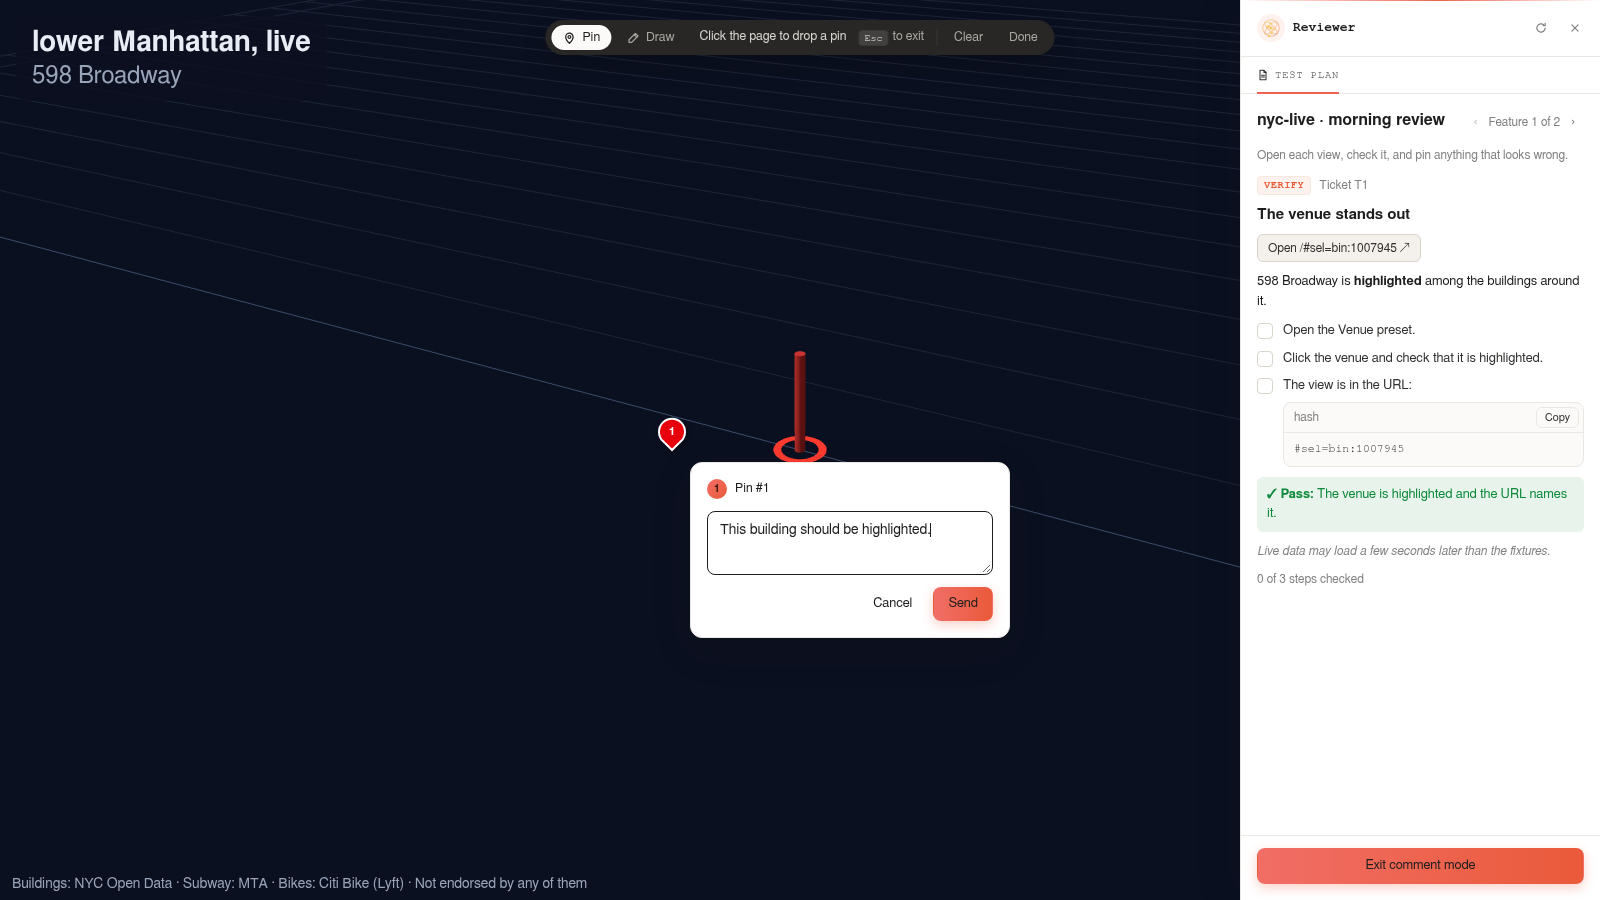
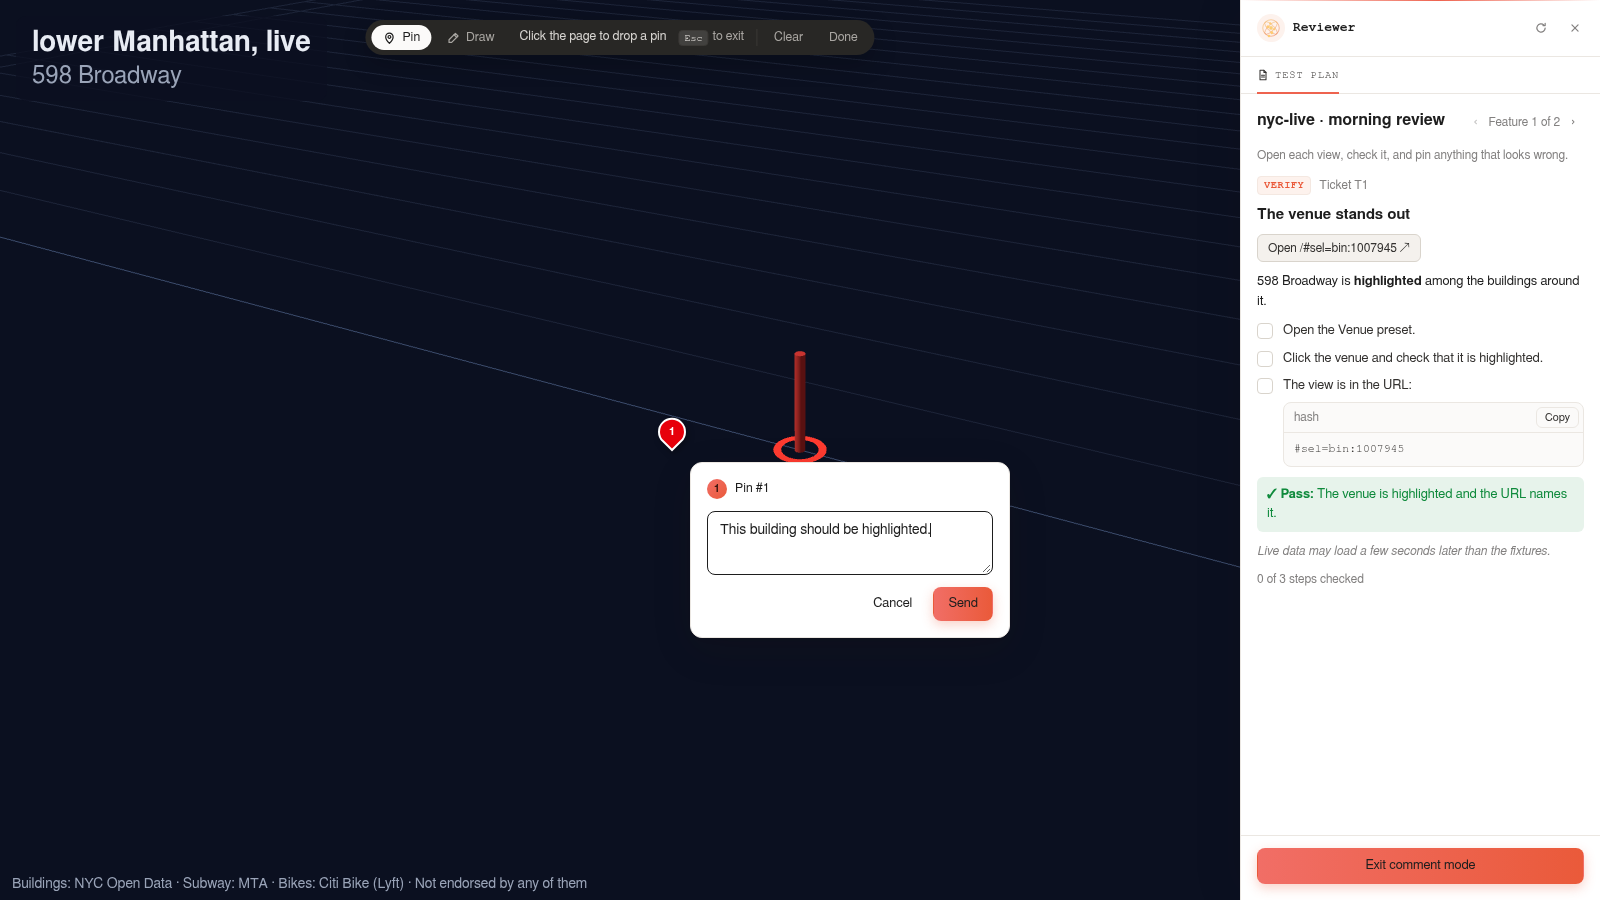
reviewer-overlay: keep the toolbar clear of the panel, fingerprint the look
The comment toolbar sits above the docked panel and, when the window has
room, centres in the space beside it, so Clear and Done stay clickable on
narrower screens. Long plan titles wrap instead of pushing the feature
navigation out of the row.

The design check now fingerprints the files that decide the look. Replay
fails when they changed since the last passing --record, so the recorded
answers always describe screenshots of the current look. Screenshots
retaken and the check recorded again.

Changed region(s): [[0.2188, 0.0, 0.6562, 0.0622]]

diff --git a/reviewer-overlay/src/client/styles.ts b/reviewer-overlay/src/client/styles.ts
@@ -127,7 +127,7 @@ button { cursor: pointer; }
   border-bottom: 2px solid var(--accent);
 }
 .panel-tab .icon { width: 12px; height: 12px; }
-.panel-body { flex: 1; overflow-y: auto; padding: 16px; display: flex; flex-direction: column; gap: 12px; }
+.panel-body { flex: 1; overflow-y: auto; padding: 16px; display: flex; flex-direction: column; gap: 12px; overflow-wrap: anywhere; }
 .panel-foot { display: flex; flex-direction: column; gap: 10px; padding: 12px 16px 16px; border-top: 1px solid var(--line); }
 .panel-foot .btn { width: 100%; padding: 9px 12px; }
 .target { display: flex; flex-direction: column; gap: 6px; }
@@ -138,7 +138,7 @@ button { cursor: pointer; }
 }
 .target input:focus { outline: none; border-color: var(--fg); }
 
-.plan-title { font-weight: 600; font-size: 16px; line-height: 1.3; color: var(--fg); }
+.plan-title { flex: 1 1 auto; min-width: 0; font-weight: 600; font-size: 16px; line-height: 1.3; color: var(--fg); }
 .muted { color: var(--muted); }
 .small { font-size: 12px; }
 .plan-head { display: flex; align-items: flex-start; justify-content: space-between; gap: 8px; }
@@ -207,7 +207,7 @@ a.link:hover { background: var(--line); }
 .marks { position: fixed; inset: 0; z-index: 2; pointer-events: none; width: 100vw; height: 100vh; overflow: visible; }
 .marks .pin { filter: drop-shadow(2px 3px 3px rgba(0,0,0,.3)); }
 .toolbar {
-  position: fixed; top: 20px; left: 50%; transform: translateX(-50%); z-index: 3;
+  position: fixed; top: 20px; left: 50%; transform: translateX(-50%); z-index: 5;
   display: flex; align-items: center; gap: 4px; padding: 5px 6px; max-width: calc(100vw - 24px); flex-wrap: wrap;
   background: var(--ink); color: var(--ink-fg); border-radius: 18px; box-shadow: 0 8px 24px rgba(0,0,0,.22);
   font-size: 12.5px;
@@ -223,10 +223,15 @@ a.link:hover { background: var(--line); }
 }
 .toolbar .sep { width: 1px; align-self: stretch; margin: 4px 2px; background: var(--ink-line); }
 .toolbar .status { flex-basis: 100%; padding: 2px 10px 4px; color: var(--ink-fg); }
+/* The toolbar sits above the docked panel, and centres in the space beside it
+   when the window leaves enough room. */
+@media (min-width: 900px) {
+  .root.panel-open .toolbar { left: calc(50% - min(360px, 100vw) / 2); max-width: calc(100vw - min(360px, 100vw) - 24px); }
+}
 .toolbar .status.error { color: #ff8a80; }
 .toolbar .status.success { color: #7ee2a0; }
 .composer {
-  position: fixed; z-index: 5; width: 320px; max-width: calc(100vw - 24px);
+  position: fixed; z-index: 6; width: 320px; max-width: calc(100vw - 24px);
   display: flex; flex-direction: column; gap: 12px; padding: 16px;
   background: var(--bg); border: 1px solid var(--line); border-radius: 12px; box-shadow: var(--shadow);
 }

diff --git a/reviewer-overlay/test/design-check.ts b/reviewer-overlay/test/design-check.ts
@@ -10,6 +10,11 @@
 // the request with every image replaced by its sha256, so --replay needs neither
 // the references nor a key. Exits 0 when every check passes, 1 when one fails,
 // 2 when the checks could not run.
+//
+// Answers about screenshots of an older look prove nothing, so the check file
+// also fingerprints the files that decide the look (`look`): --replay fails when
+// they changed since the last passing --record, and a passing --record updates
+// the fingerprint. Retake the screenshots before you record again.
 
 import { createHash } from "node:crypto"
 import { mkdirSync, readFileSync, writeFileSync } from "node:fs"
@@ -28,6 +33,7 @@ type Spec = {
   context: string
   references: Array<{ name: string; caption: string; sha256: string }>
   shots: Array<{ name: string; caption: string; path: string }>
+  look?: { files: string[]; sha256: string }
   checks: Check[]
 }
 
@@ -39,6 +45,11 @@ type Answer =
 type Part = { type: "input_text"; text: string } | { type: "input_image"; image_url: string }
 
 const sha256 = (data: Buffer | string): string => createHash("sha256").update(data).digest("hex")
+
+// Line endings are normalised so a checkout with CRLF gets the same fingerprint.
+function lookSha256(files: string[]): string {
+  return sha256(files.map((file) => `${file}\0${readFileSync(file, "utf8").replaceAll("\r\n", "\n")}`).join("\0"))
+}
 
 // References first, then shots, each after its caption. `image` returns the
 // image_url for one image: the real data URL, or its hash for the recording key.
@@ -115,6 +126,11 @@ async function main(): Promise<number> {
   const file = join(values.recordings, `${recordingKey(spec, shotHashes)}.json`)
 
   let answers: Answer[]
+  if (values.replay && spec.look != null && lookSha256(spec.look.files) !== spec.look.sha256) {
+    console.log(`FAIL  ${"look_is_current".padEnd(24)} ${spec.look.files.join(", ")} changed since the screenshots were checked`)
+    console.error("retake the screenshots in the check file and run it again with --record")
+    return 1
+  }
   if (values.replay) {
     let text: string
     try {
@@ -172,7 +188,12 @@ async function main(): Promise<number> {
   for (const result of results) {
     console.log(`${result.pass ? "PASS" : "FAIL"}  ${result.name.padEnd(24)} ${result.detail}`)
   }
-  return results.every((result) => result.pass) ? 0 : 1
+  const passed = results.every((result) => result.pass)
+  if (values.record && passed && spec.look != null) {
+    spec.look.sha256 = lookSha256(spec.look.files)
+    writeFileSync(specPath, `${JSON.stringify(spec, null, 2)}\n`)
+  }
+  return passed ? 0 : 1
 }
 
 exit(await main())

diff --git a/reviewer-overlay/test/t10.test.ts b/reviewer-overlay/test/t10.test.ts
@@ -38,6 +38,16 @@ describe("T10 design check", () => {
     const run = designCheck(path, "--replay")
     assert.equal(run.status, 2, run.stdout)
   })
+
+  it("fails when the look changed since the screenshots were checked", () => {
+    const spec = JSON.parse(readFileSync("test/checks/t10.json", "utf8")) as { look: { sha256: string } }
+    const stale = { ...spec, look: { ...spec.look, sha256: "0".repeat(64) } }
+    const path = join(mkdtempSync(join(tmpdir(), "reviewer-overlay-stale-")), "t10.json")
+    writeFileSync(path, JSON.stringify(stale))
+    const run = designCheck(path, "--replay")
+    assert.equal(run.status, 1, run.stderr)
+    assert.match(run.stdout, /^FAIL {2}look_is_current/m)
+  })
 })
 
 describe("T10 look", () => {

diff --git a/reviewer-overlay/src/client/overlay.ts b/reviewer-overlay/src/client/overlay.ts
@@ -904,6 +904,7 @@ export function createOverlay(options: OverlayOptions): { destroy: () => void } 
   }
 
   function render() {
+    root.className = state.open ? "root panel-open" : "root"
     bubble.hidden = state.open
     panel.hidden = !state.open
     targetRow.hidden = state.config?.canChooseTarget !== true
